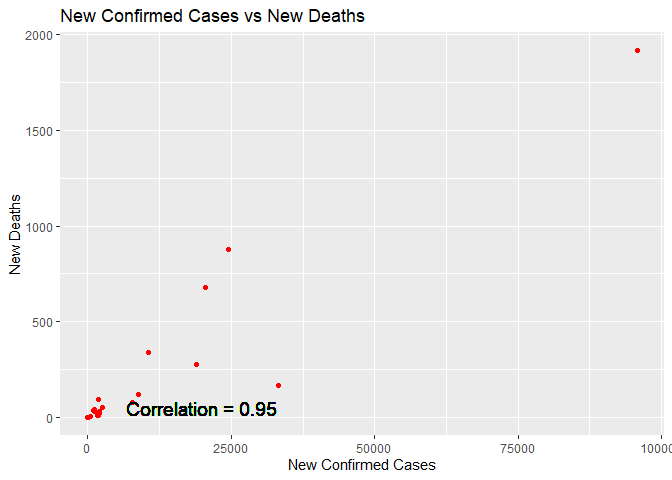
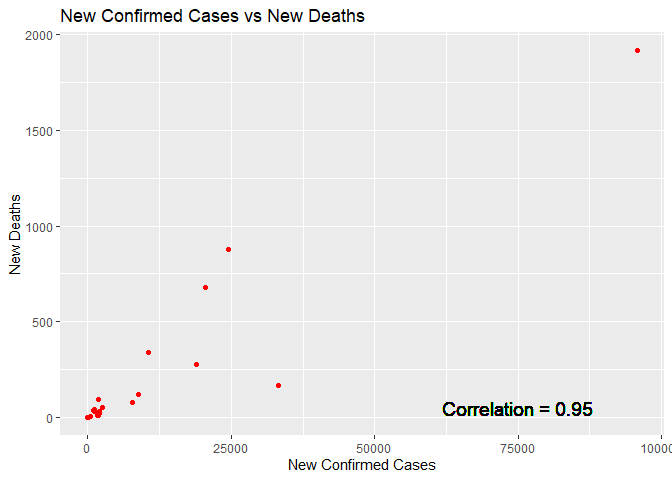
commit

Changed region(s): [[0.6562, 0.8125, 0.9062, 0.875], [0.1875, 0.8125, 0.4062, 0.875]]

diff --git a/README.md b/README.md
@@ -300,7 +300,7 @@ ggplot(Combo, aes(x = Cases, y = Country)) +
 geom_boxplot() + geom_jitter(aes(color = Status)) + ggtitle("Boxplot for Confirmed Cases")
 ```
 
-![](README_files/figure-gfm/unnamed-chunk-25-1.png)<!-- -->
+![](README_files/figure-gfm/unnamed-chunk-24-1.png)<!-- -->
 
 The following code calculates numerical summaries for daily cases
 confirmed for the two countries. The mean case count per day for Norway
@@ -327,7 +327,7 @@ appears to report each day that had a confirmed case status.
 ggplot(Combo, aes(x = Country)) + geom_bar(aes(fill = Status), position = "dodge") + xlab("Country") + scale_fill_discrete(name = "") + ggtitle("Confirmed Case Statuses")
 ```
 
-![](README_files/figure-gfm/unnamed-chunk-27-1.png)<!-- -->
+![](README_files/figure-gfm/unnamed-chunk-26-1.png)<!-- -->
 
 The following contingency table reports the number of confirmed case
 statuses for South Africa and Mexico returned from the Day 1 API. The
@@ -351,7 +351,7 @@ the first recorded case. Case statuses were similar for each country.
 ggplot(Day1, aes(x = Country)) + geom_bar(aes(fill = Status), position = "dodge") + xlab("Country") + scale_fill_discrete(name = "") + ggtitle("Confirmed Cases Statuses")
 ```
 
-![](README_files/figure-gfm/unnamed-chunk-29-1.png)<!-- -->
+![](README_files/figure-gfm/unnamed-chunk-28-1.png)<!-- -->
 
 The following code calculates numerical summaries for daily cases since
 Day 1 for Mexico and South Africa. Average cases for Mexico were
@@ -415,11 +415,11 @@ g <- ggplot(resp2Df, aes(x = NewConfirmed, y = NewDeaths))+ labs(y="New Deaths",
 g + geom_point(col = "Red") + ggtitle("New Confirmed Cases vs New Deaths") + geom_text(x = 75000, y = 50, size = 5, label = paste0("Correlation = ", round(correlation, 2)))
 ```
 
-![](README_files/figure-gfm/unnamed-chunk-33-1.png)<!-- -->
+![](README_files/figure-gfm/unnamed-chunk-32-1.png)<!-- -->
 
 The following code creates a new variable which calculates new deaths to
 new confirmed cases for the countries in the summary data set. The ratio
-of new deaths to confirmed cases was less than 1% for Australia..
+of new deaths to confirmed cases was less than 1% for Australia.
 
 ``` r
 resp2Df <- resp2Df %>% mutate(Ratio = NewDeaths/NewConfirmed)
@@ -442,7 +442,7 @@ in the 750,000 range.
 ggplot(data = resp2Df, aes(TotalConfirmed)) + geom_histogram(breaks = seq(20000, 900000, by = 70000), col = "blue", fill = "purple", alpha = .2) + labs(title = "Total Confirmed Cases for All Countries") + xlab("Total Confirmed")
 ```
 
-![](README_files/figure-gfm/unnamed-chunk-35-1.png)<!-- -->
+![](README_files/figure-gfm/unnamed-chunk-34-1.png)<!-- -->
 
 # Conclusion
 
